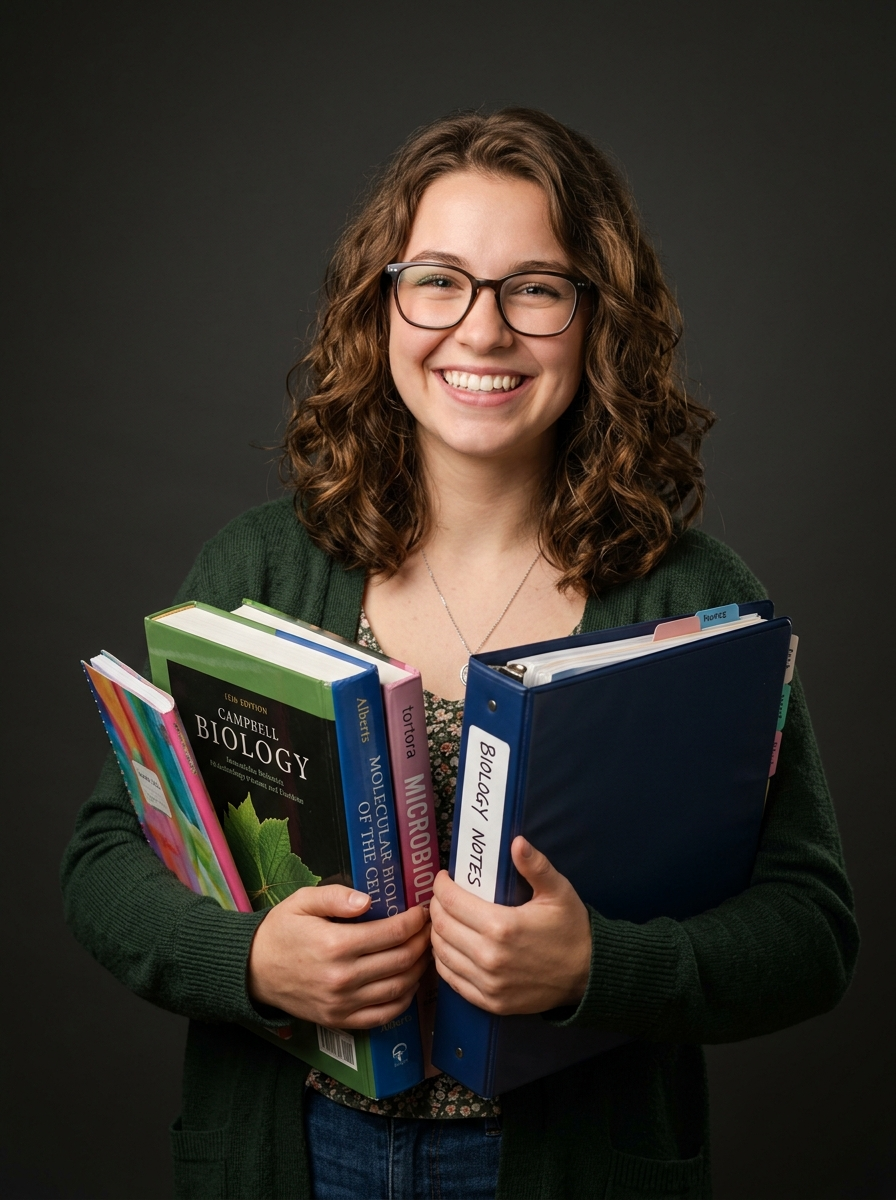
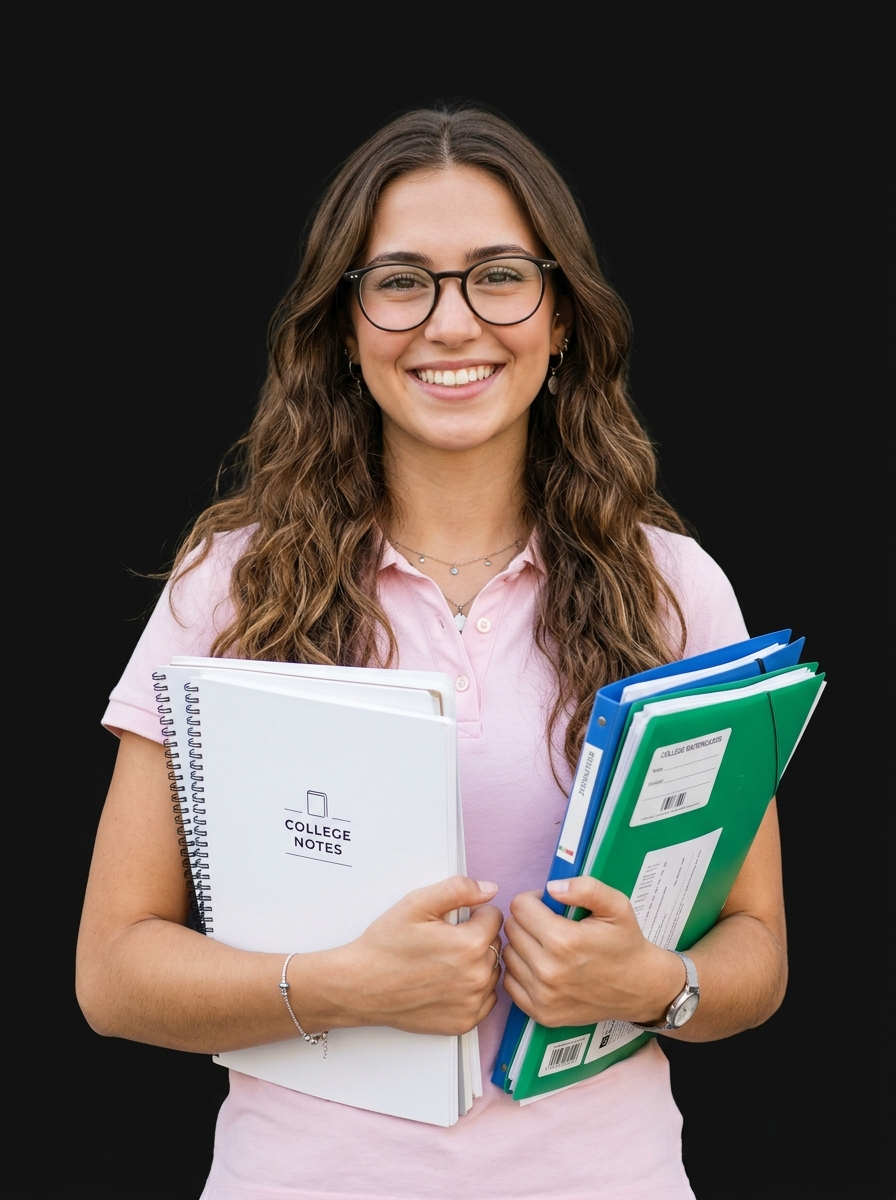
Add exact girl image from reference as pure cutout with no background box or card borders

diff --git a/bioedge-frontend/src/components/home/ReferenceHeroSection.tsx b/bioedge-frontend/src/components/home/ReferenceHeroSection.tsx
@@ -90,14 +90,14 @@ export const ReferenceHeroSection: React.FC = () => {
           </div>
 
           {/* ============================================================
-              CENTER COLUMN: Smiling Student Portrait & Overlapping White Card
+              CENTER COLUMN: Smiling Student Portrait & Overlapping White Card (No background / No box / No card)
              ============================================================ */}
           <div className="ref-hero-center-col">
-            {/* Center Student Main Visual */}
+            {/* Center Student Main Visual - Pure transparent cutout */}
             <div className="center-student-frame">
               <img 
-                src="/assets/hero/hero_student_center.jpg" 
-                alt="Bio Edge Biology Student" 
+                src="/assets/hero/hero_student_transparent.png" 
+                alt="Bio Edge Student" 
                 className="center-student-img"
               />
               <div className="student-ambient-glow"></div>

diff --git a/bioedge-frontend/src/index.css b/bioedge-frontend/src/index.css
@@ -1910,27 +1910,34 @@ input, select, textarea {
 .center-student-frame {
   position: relative;
   width: 100%;
-  max-width: 420px;
+  max-width: 440px;
   margin: 0 auto;
   z-index: 5;
+  background: transparent;
+  border: none;
+  box-shadow: none;
 }
 
 .center-student-img {
   width: 100%;
   height: auto;
-  max-height: 490px;
+  max-height: 520px;
   object-fit: contain;
   display: block;
-  filter: drop-shadow(0 15px 35px rgba(0, 0, 0, 0.65));
-  border-radius: 12px;
+  background: transparent;
+  border: none;
+  border-radius: 0;
+  box-shadow: none;
+  filter: drop-shadow(0 15px 35px rgba(0, 0, 0, 0.5));
 }
 
 .student-ambient-glow {
   position: absolute;
-  inset: 10%;
-  background: radial-gradient(circle, rgba(16, 185, 129, 0.25) 0%, transparent 70%);
-  filter: blur(40px);
+  inset: 15%;
+  background: radial-gradient(circle, rgba(16, 185, 129, 0.22) 0%, transparent 70%);
+  filter: blur(50px);
   z-index: -1;
+  pointer-events: none;
 }
 
 /* Overlapping White Bottom Card */
